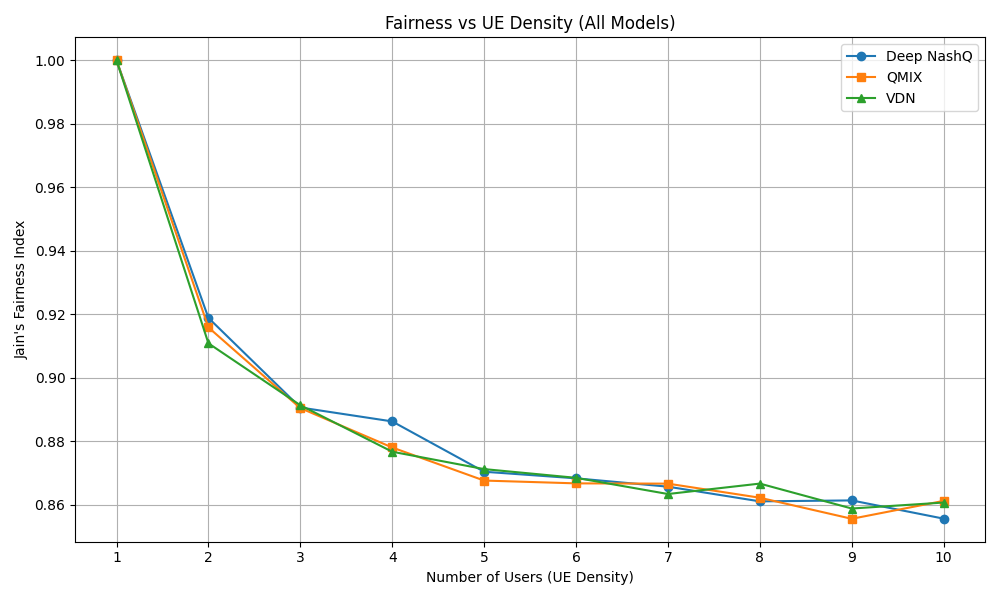
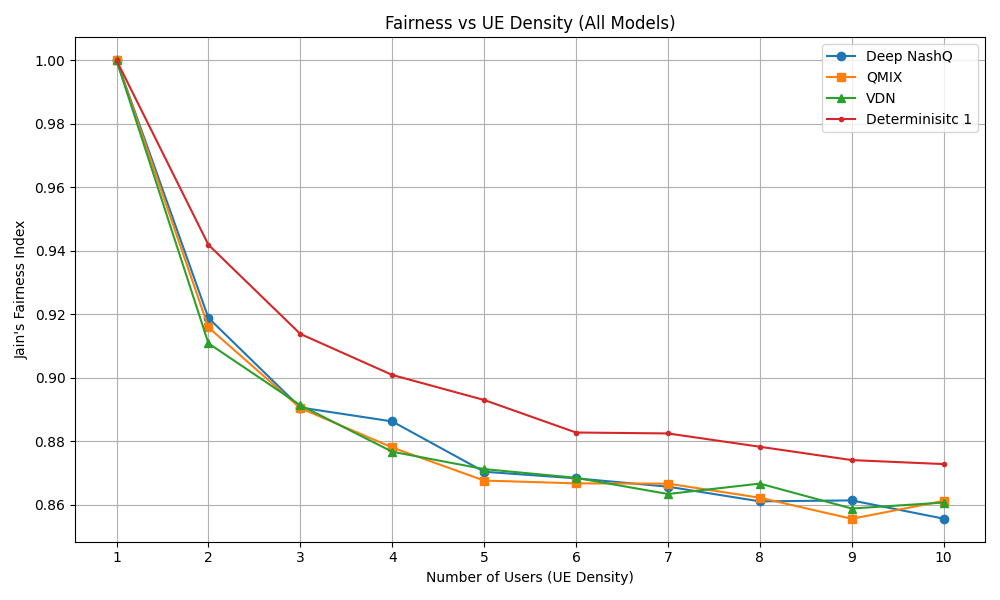
chnages
some changes

diff --git a/Geometric Deterministic Model/model.py b/Geometric Deterministic Model/model.py
@@ -1,8 +1,14 @@
 
 import numpy as np
 import matplotlib.pyplot as plt
-
+def jains_fairness(user_rates):
+        user_rates = np.array(user_rates)
+        numerator = np.sum(user_rates) ** 2
+        denominator = len(user_rates) * np.sum(user_rates ** 2)
+        return numerator / denominator if denominator != 0 else 0
 class DeterministicUAVSimulation:
+    
+
     def __init__(self, num_uavs=3, num_users=20, grid_size=(10, 10), uav_altitude=12.0, tx_power=1.0, noise_power=1e-3, path_loss_exp=2.5, bandwidth=1.0):
         self.num_uavs = num_uavs
         self.num_users = num_users
@@ -82,8 +88,36 @@ class DeterministicUAVSimulation:
 
 
 if __name__ == "__main__":
+    user_counts = [1,2,3,4,5,6,7,8,9,10]
+    fairness_scores = []
     sim = DeterministicUAVSimulation()
     total_throughput, user_rates = sim.run()
     print(f"Total Throughput: {total_throughput:.2f}")
     print(f"User Rates: {user_rates}")
     sim.visualize()
+    for num_users in user_counts:
+        total_fairness = 0
+        runs = 1000
+        for _ in range(runs):
+            sim = DeterministicUAVSimulation(num_users=num_users)
+            _, user_rates = sim.run()
+            total_fairness += jains_fairness(user_rates)
+        avg_fairness = total_fairness / runs
+        fairness_scores.append(avg_fairness)
+
+
+    # Plotting
+    plt.figure(figsize=(8, 5))
+    plt.plot(user_counts, fairness_scores, marker='o', linestyle='-', color='darkblue')
+    plt.xlabel("Number of Users (UE Density)")
+    plt.xticks(user_rates)
+    plt.ylabel("Jain's Fairness Index")
+    plt.title("Fairness vs UE Density (Deterministic)")
+    plt.grid(True)
+    plt.xticks(user_counts)
+    plt.tight_layout()
+    plt.savefig("results/deterministic_fairness_vs_density.png")
+    plt.show()
+
+    # Save fairness values for later comparison
+    np.save("results/deterministic_fairness_vs_density.npy", np.array(fairness_scores))

diff --git a/compare_models.py b/compare_models.py
@@ -95,6 +95,7 @@ plt.show()
 deepnash_fairness = np.load("results/deepnash_fairness.npy")
 qmix_fairness = np.load("results/qmix_fairness.npy")
 vdn_fairness = np.load("results/vdn_fairness.npy")
+# geo_fairness = np.load("results/deterministic_fairness.npy")
 
 def smooth(y, window=20):
     return np.convolve(y, np.ones(window)/window, mode='valid')
@@ -104,6 +105,7 @@ window_size = 20
 dn_smooth = smooth(deepnash_fairness, window_size)
 qmix_smooth = smooth(qmix_fairness, window_size)
 vdn_smooth = smooth(vdn_fairness, window_size)
+# geo_smooth = smooth(vdn_fairness, window_size)
 x_vals = np.arange(len(dn_smooth))
 
 # Plot
@@ -111,6 +113,7 @@ plt.figure(figsize=(12, 6))
 plt.plot(x_vals, dn_smooth, label="Deep NashQ", linewidth=2)
 plt.plot(x_vals, qmix_smooth, label="QMIX", linewidth=2)
 plt.plot(x_vals, vdn_smooth, label="VDN", linewidth=2)
+# plt.plot(x_vals, deter, label="VDN", linewidth=2)
 plt.xlabel("Episode")
 plt.ylabel("Jain's Fairness Index")
 plt.title("Fairness Comparison Across Algorithms")
@@ -129,12 +132,14 @@ user_counts = [1, 2, 3, 4, 5,6,7,8,9,10]
 deepnash_fairness = np.load("results/deepnash_fairness_vs_density.npy")
 qmix_fairness = np.load("results/qmix_fairness_vs_density.npy")
 vdn_fairness = np.load("results/vdn_fairness_vs_density.npy")
+geo_fairness = np.load("results/deterministic_fairness_vs_density.npy")
 
 # Plot
 plt.figure(figsize=(10, 6))
 plt.plot(user_counts, deepnash_fairness, marker='o', label='Deep NashQ')
 plt.plot(user_counts, qmix_fairness, marker='s', label='QMIX')
 plt.plot(user_counts, vdn_fairness, marker='^', label='VDN')
+plt.plot(user_counts, geo_fairness, marker='.', label='Determinisitc 1')
 
 plt.xlabel("Number of Users (UE Density)")
 plt.xticks(user_counts)
